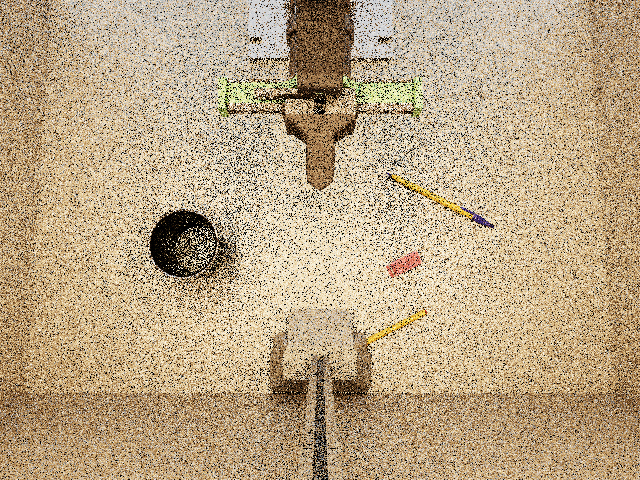
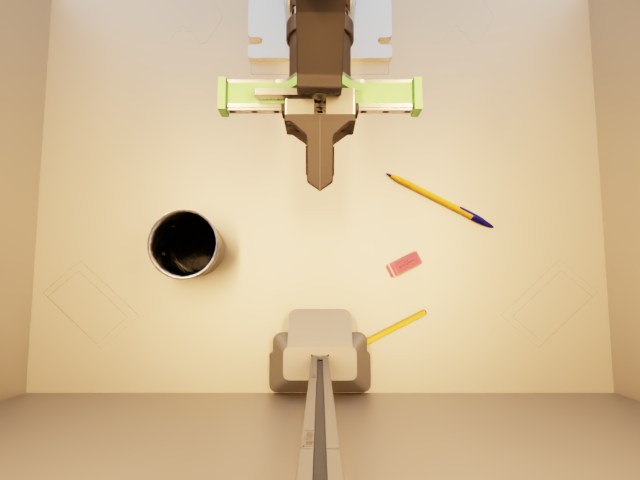
docs: retake stationery stills with Path Tracing (noise-free)
The stills are now rendered by the capture script's Path Tracing mode; the
callout no longer attributes speckle to the 8GB-GPU limitation.

diff --git a/js/course-data.js b/js/course-data.js
@@ -93,7 +93,7 @@ window.COURSE_DATA = [
     "chapterTitle": "3. Get Your Own VLA Model",
     "title": "3.4 Collect Data from Isaac Sim (Optional)",
     "file": "03_Get_Your_Own_VLA_Model/04_Collect_Data_from_Isaac_Sim.md",
-    "content": "# Collect Data from Isaac Sim\n\nThis article describes how to use the reBot Arm 102 Leader to control the B601 robotic arm in Isaac Sim in real time, and collect human demonstrations of \"placing the three vials into the vial rack\" as a LeRobot Dataset v3 dataset.\n\n> [!NOTE]\n> This chapter is optional. It is recommended to run the complete real-world loop first (collect data → train → evaluate in the real environment, sections 3.1–3.3). Simulation data does not occupy the real robot and can scale scene and lighting diversity at low cost, so it works well as a supplement once the real pipeline is verified.\n\n![Isaac Sim teleoperation demonstration](../image/8月9日.gif)\n\n## Learning Objectives\n\n- Learn about the Nvidia Isaac Sim simulation tool\n- Learn the workspace camera layout: the wrist-mounted `front` camera, the fixed `side` camera, and the overhead `external` camera\n- Generate a complete `VLA` training dataset\n\n## Data Acquisition Process\n\nThe data link of this project is as follows:\n\n```text\nreBot Arm 102 Leader\n       | USB-UART\n       ▼\nLeRobot Python bridge -- UDP 127.0.0.1:5005 --> Isaac Sim B601\n                                                        |\n                                   +--------------------+--------------------+\n                                   |                    |                    |\n                                   ▼                    ▼                    ▼\n                              action/state         front camera        external camera\n                                   |                    |                    |\n                                   +--------------------+--------------------+\n                                                        |\n                                                        ▼\n                                                 LeRobot Dataset v3\n```\n\nThe `Leader` only provides manual control commands, and the simulated robotic arm will not autonomously execute the grasping trajectory. The system simultaneously records:\n\n- `action`: 6 arm joint and gripper commands for the `Leader`;\n- `observation.state`: the states of the 6 joints and the gripper of simulation B601;\n- `observation.images.front`: camera images that move along with the wrist;\n- `observation.images.external`: the overhead view from the data-collection camera above the workspace;\n- Task text (`Put the three vials into the vial rack`), randomization parameters, and task success status.\n\nThe default acquisition frequency is 30 `FPS`. Both recorded cameras have a resolution of 640 × 480. The GUI also opens a fixed `side` camera viewport inside the enclosure; it is for observation only and is not written to the dataset.\n\n## Camera Views\n\nAfter pressing `R` to reset the scene, the three camera views look like this. `front` and `external` are the two video streams actually recorded into the dataset:\n\n<div style=\"display: grid; grid-template-columns: repeat(auto-fit, minmax(240px, 1fr)); gap: 1.25rem; margin: 1.5rem 0;\">\n  <figure style=\"margin: 0;\">\n    <img src=\"../image/camera_preview_front.png\" alt=\"front camera view\" style=\"width: 100%; border-radius: 8px; border: 1px solid var(--nv-border);\">\n    <figcaption style=\"text-align: center; font-size: 0.875rem; margin-top: 0.5rem;\">front (wrist-mounted, moves with the arm)</figcaption>\n  </figure>\n  <figure style=\"margin: 0;\">\n    <img src=\"../image/camera_preview_side.png\" alt=\"side camera view\" style=\"width: 100%; border-radius: 8px; border: 1px solid var(--nv-border);\">\n    <figcaption style=\"text-align: center; font-size: 0.875rem; margin-top: 0.5rem;\">side (fixed inside the enclosure, observation only)</figcaption>\n  </figure>\n  <figure style=\"margin: 0;\">\n    <img src=\"../image/camera_preview_external.png\" alt=\"external camera view\" style=\"width: 100%; border-radius: 8px; border: 1px solid var(--nv-border);\">\n    <figcaption style=\"text-align: center; font-size: 0.875rem; margin-top: 0.5rem;\">external (overhead, recorded)</figcaption>\n  </figure>\n</div>\n\n> [!NOTE]\n> The hardware visible in the lower part of the `front` view (gripper and camera mount) is expected — the wrist camera sits at the front of the lens and looks along the arm. Use `./run.sh --single-viewport` to keep only the main viewport and hide the three floating camera windows; recording is unaffected.\n\n## Optional Task: Pens and Eraser into the Pencil Cup\n\nBesides the default vial task, the project ships an optional `stationery` scene: a fixed pencil cup at `(-0.16, 0.12) m` with two pens and an eraser as the graspable objects. The robot, enclosure and all three cameras are identical to the default scene, and the scene file is generated automatically on first launch:\n\n```bash\n./run.sh --variant stationery\n```\n\nAfter pressing `R`, the three camera views look like this (`front` and `external` are the recorded streams):\n\n<div style=\"display: grid; grid-template-columns: repeat(auto-fit, minmax(240px, 1fr)); gap: 1.25rem; margin: 1.5rem 0;\">\n  <figure style=\"margin: 0;\">\n    <img src=\"../image/camera_preview_stationery_front.png\" alt=\"front camera view in the stationery scene\" style=\"width: 100%; border-radius: 8px; border: 1px solid var(--nv-border);\">\n    <figcaption style=\"text-align: center; font-size: 0.875rem; margin-top: 0.5rem;\">front (wrist-mounted, recorded)</figcaption>\n  </figure>\n  <figure style=\"margin: 0;\">\n    <img src=\"../image/camera_preview_stationery_side.png\" alt=\"side camera view in the stationery scene\" style=\"width: 100%; border-radius: 8px; border: 1px solid var(--nv-border);\">\n    <figcaption style=\"text-align: center; font-size: 0.875rem; margin-top: 0.5rem;\">side (fixed, observation only)</figcaption>\n  </figure>\n  <figure style=\"margin: 0;\">\n    <img src=\"../image/camera_preview_stationery_external.png\" alt=\"external camera view in the stationery scene\" style=\"width: 100%; border-radius: 8px; border: 1px solid var(--nv-border);\">\n    <figcaption style=\"text-align: center; font-size: 0.875rem; margin-top: 0.5rem;\">external (overhead, recorded)</figcaption>\n  </figure>\n</div>\n\nThe capture flow is the same (`R` reset / `S` record / `C` cancel), and the episode succeeds once all three items rest stably inside the cup. Data is written to a separate dataset so it never mixes with the default vial data:\n\n```bash\n~/rebot-arm-dli-isaacsim/datasets/rebot_stationery_pencil_cup\n# Task text: Put the two pens and the eraser into the pencil cup\n```\n\n> [!NOTE]\n> The stills above were captured on an 8 GB laptop GPU; the speckle noise is a known rendering limitation of that hardware (see the project tutorial, \"Known Issues\"). On a recommended ≥12 GB RTX 40-series GPU the same scene renders clean.\n\n## Environmental Requirements\n\nPlease confirm the following before starting:\n\n- Ubuntu 22.04;\n- NVIDIA RTX GPU with **at least 12 GB of VRAM**, and Isaac Sim 6.1 installed and launchable;\n- Isaac Sim is installed by default at `~/isaacsim`;\n- The LeRobot environment is located at `~/rebot_lerobot/.venv` and was installed with the dataset extras (see section 3.1): `uv pip install -e \"./lerobot[dataset,viz]\"`. Without them, the recorded episodes fail to convert (the terminal prints `[dataset-error]`) and the dataset visualizer is unavailable;\n- The reBot Arm 102 Leader has been connected to the computer via USB-UART and calibrated successfully;\n- `git-lfs` is installed (the project's USD assets are stored with Git LFS).\n\n> [!WARNING]\n> Use an RTX GPU with at least 12 GB of VRAM. On 8 GB GPUs (e.g. most laptop GPUs) the render load can starve the desktop compositor and freeze the whole machine within minutes, even with the built-in mitigations enabled. See the project tutorial `TUTORIAL_zh.md` (sections 1 and 10) for details and partial mitigations.\n\nThe recommended directory structure is as follows:\n\n```text\n~\n├── isaacsim/\n└── rebot_lerobot/\n    └── .venv/bin/python\n```\n\n## Download Source Code\n\nRun the following command in the terminal of the Ubuntu host:\n\n```bash\nsudo apt update\nsudo apt install -y git-lfs\n\ncd ~\ngit clone https://github.com/Seeed-Projects/rebot-arm-dli-isaacsim.git\ncd rebot-arm-dli-isaacsim\ngit lfs install\ngit lfs pull\n```\n\n> [!WARNING]\n> The robot, camera-mount, workspace, vial and rack assets are stored with Git LFS. Without `git lfs pull` the clone only contains small pointer files, and Isaac Sim cannot open the scene.\n\n## Launch Isaac Sim Teleoperation\n\nNavigate to the project directory and start:\n\n```bash\ncd ~/rebot-arm-dli-isaacsim\n./run.sh --leader-port /dev/ttyUSB0\n```\n\nIf there is only one `/dev/ttyUSB*` device, you can also let the program detect it automatically:\n\n```bash\n./run.sh\n```\n\nIf Isaac Sim is installed in a different directory:\n\n```bash\nISAACSIM_ROOT=/path/to/isaacsim ./run.sh --leader-port /dev/ttyUSB0\n```\n\nThe first launch takes a few minutes to compile shaders; this is normal. After startup is complete, the terminal shall display:\n\n![Isaac Sim Startup Terminal Output](../image/e7f5a5d8-3e3e-4212-9e9d-eb0e428b40f8.png)\n\n## Capture an episode\n\nEnsure that the Isaac Sim viewport has obtained keyboard focus, then performs the following operations in sequence:\n\n1. Press `R` to reset the scene. The three vials will be repositioned, and randomization of objects and lighting will be applied.\n2. Check the three camera views (see above) and the initial position of the vials.\n3. Press `S` to start recording. The following should appear on the terminal:\n\n```text\n[record] Episode started at 30 FPS -> .../datasets/rebot_stationery_front_side\n```\n\n4. Operate the leader, and put the three vials into the vial rack in sequence (any of the four slots works).\n5. Release the gripper and wait for the vials to stabilize in the rack.\n6. When `[SUCCESS]` appears on the terminal, press `S` to finish and save the episode.\n7. Wait for the background encoding to complete until the following message appears in the terminal:\n\n```text\n[dataset] Episode saved; total completed: 1\n```\n\nThe system will convert temporary JPEGs, actions and states into LeRobot Dataset v3 in the background, and you can start the next operation during the encoding process. When exiting the program, if there are still pending episodes, the program will wait for the background tasks to complete.\n\n## Keyboard Shortcuts\n\n| button | Function |\n|---|---|\n| `R` | Reset the three vials and re-randomize them |\n| `S` | Start recording; press again while recording to end and save |\n| `C` | Cancel the current episode without writing it to the dataset |\n\nIf a vial falls, a grasp fails, the motion quality is poor, or the camera is occluded during the demonstration, press `C` to discard the current episode, then press `R` to start the next data collection.\n\nThe default output directory for collected data is:\n\n```bash\n~/rebot-arm-dli-isaacsim/datasets/rebot_stationery_front_side\n```\n\n> [!NOTE]\n> To train GR00T 1.7 on this simulated dataset (section 3.2), change `video.side.original_key` in `modality.json` from `observation.images.side` to `observation.images.external` (the real dataset from section 3.1 keeps using `side`).\n\n## Inspect and visualize datasets\n\nYou can quickly inspect the collected data using the LeRobot visualization tool by running the following command in the terminal:\n\n```bash\ncd ~/rebot_lerobot\nsource .venv/bin/activate\n\nlerobot-dataset-viz \\\n    --repo-id local/rebot_stationery_front_side \\\n    --root ~/rebot-arm-dli-isaacsim/datasets/rebot_stationery_front_side \\\n    --mode local \\\n    --episode-index 0 \\\n    --display-compressed-images false\n```\n\nCheck different episodes in sequence to confirm that the actions, statuses and the time of the two video streams are synchronized, and there are no black frames, frozen frames or severe occlusion in the picture.\n\n![Isaac Sim Dataset Visualizer UI](../image/2564b0ac-fbac-4b4e-baf5-38b7f613ae73.png)\n\n## Replaying Actions in Isaac Sim\n\nFirst, start an Isaac Sim receiver that does not connect to the Leader, does not record data, and has randomization disabled:\n\n```bash\ncd ~/rebot-arm-dli-isaacsim\n./run.sh --no-start-bridge --no-recording --no-dr\n```\n\nThen open the second terminal and play back the 0th episode:\n\n```bash\ncd ~/rebot-arm-dli-isaacsim\n../rebot_lerobot/.venv/bin/python \\\n    scripts/replay_episode.py --episode 0\n```\n\nLoop playback can be enabled by adding `--loop`:\n\n```bash\n../rebot_lerobot/.venv/bin/python \\\n    scripts/replay_episode.py --episode 0 --loop\n```\n\nThe replay script sends the data in the dataset `action`, which is used to check the motion trajectory of the robotic arm; it is not a dual-camera video player, and the camera content should be inspected using the LeRobot dataset visualization tool.\n\n## Verify without the Leader (optional)\n\nIf the Leader arm is not available yet, the whole pipeline can still be validated with the built-in mock leader:\n\n```bash\ncd ~/rebot-arm-dli-isaacsim\n./run.sh --test                     # physics and grasp regression, ~3 minutes\n./run.sh --test --test-recording    # additionally validates the cameras and dataset writing\n```\n\nThe final `[SUCCESS]` means: all USD assets load, the scene builds, physics/gripper/grasping work, and the dataset is written correctly. No hardware is required.\n\n## Configuration and Reference Materials\n\nMain configuration files in the project:\n\n- `config/teleop_config.json`: serial port, UDP, joint mapping and grasping assistance;\n- `config/domain_randomization.json`: object, lighting, camera and dataset parameters;\n- `config/grasp_config.json`: scene objects, physical parameters and task success conditions;\n- `scripts/capture_camera_previews.py`: headless script that rewrites the camera stills used in this chapter.\n",
+    "content": "# Collect Data from Isaac Sim\n\nThis article describes how to use the reBot Arm 102 Leader to control the B601 robotic arm in Isaac Sim in real time, and collect human demonstrations of \"placing the three vials into the vial rack\" as a LeRobot Dataset v3 dataset.\n\n> [!NOTE]\n> This chapter is optional. It is recommended to run the complete real-world loop first (collect data → train → evaluate in the real environment, sections 3.1–3.3). Simulation data does not occupy the real robot and can scale scene and lighting diversity at low cost, so it works well as a supplement once the real pipeline is verified.\n\n![Isaac Sim teleoperation demonstration](../image/8月9日.gif)\n\n## Learning Objectives\n\n- Learn about the Nvidia Isaac Sim simulation tool\n- Learn the workspace camera layout: the wrist-mounted `front` camera, the fixed `side` camera, and the overhead `external` camera\n- Generate a complete `VLA` training dataset\n\n## Data Acquisition Process\n\nThe data link of this project is as follows:\n\n```text\nreBot Arm 102 Leader\n       | USB-UART\n       ▼\nLeRobot Python bridge -- UDP 127.0.0.1:5005 --> Isaac Sim B601\n                                                        |\n                                   +--------------------+--------------------+\n                                   |                    |                    |\n                                   ▼                    ▼                    ▼\n                              action/state         front camera        external camera\n                                   |                    |                    |\n                                   +--------------------+--------------------+\n                                                        |\n                                                        ▼\n                                                 LeRobot Dataset v3\n```\n\nThe `Leader` only provides manual control commands, and the simulated robotic arm will not autonomously execute the grasping trajectory. The system simultaneously records:\n\n- `action`: 6 arm joint and gripper commands for the `Leader`;\n- `observation.state`: the states of the 6 joints and the gripper of simulation B601;\n- `observation.images.front`: camera images that move along with the wrist;\n- `observation.images.external`: the overhead view from the data-collection camera above the workspace;\n- Task text (`Put the three vials into the vial rack`), randomization parameters, and task success status.\n\nThe default acquisition frequency is 30 `FPS`. Both recorded cameras have a resolution of 640 × 480. The GUI also opens a fixed `side` camera viewport inside the enclosure; it is for observation only and is not written to the dataset.\n\n## Camera Views\n\nAfter pressing `R` to reset the scene, the three camera views look like this. `front` and `external` are the two video streams actually recorded into the dataset:\n\n<div style=\"display: grid; grid-template-columns: repeat(auto-fit, minmax(240px, 1fr)); gap: 1.25rem; margin: 1.5rem 0;\">\n  <figure style=\"margin: 0;\">\n    <img src=\"../image/camera_preview_front.png\" alt=\"front camera view\" style=\"width: 100%; border-radius: 8px; border: 1px solid var(--nv-border);\">\n    <figcaption style=\"text-align: center; font-size: 0.875rem; margin-top: 0.5rem;\">front (wrist-mounted, moves with the arm)</figcaption>\n  </figure>\n  <figure style=\"margin: 0;\">\n    <img src=\"../image/camera_preview_side.png\" alt=\"side camera view\" style=\"width: 100%; border-radius: 8px; border: 1px solid var(--nv-border);\">\n    <figcaption style=\"text-align: center; font-size: 0.875rem; margin-top: 0.5rem;\">side (fixed inside the enclosure, observation only)</figcaption>\n  </figure>\n  <figure style=\"margin: 0;\">\n    <img src=\"../image/camera_preview_external.png\" alt=\"external camera view\" style=\"width: 100%; border-radius: 8px; border: 1px solid var(--nv-border);\">\n    <figcaption style=\"text-align: center; font-size: 0.875rem; margin-top: 0.5rem;\">external (overhead, recorded)</figcaption>\n  </figure>\n</div>\n\n> [!NOTE]\n> The hardware visible in the lower part of the `front` view (gripper and camera mount) is expected — the wrist camera sits at the front of the lens and looks along the arm. Use `./run.sh --single-viewport` to keep only the main viewport and hide the three floating camera windows; recording is unaffected.\n\n## Optional Task: Pens and Eraser into the Pencil Cup\n\nBesides the default vial task, the project ships an optional `stationery` scene: a fixed pencil cup at `(-0.16, 0.12) m` with two pens and an eraser as the graspable objects. The robot, enclosure and all three cameras are identical to the default scene, and the scene file is generated automatically on first launch:\n\n```bash\n./run.sh --variant stationery\n```\n\nAfter pressing `R`, the three camera views look like this (`front` and `external` are the recorded streams):\n\n<div style=\"display: grid; grid-template-columns: repeat(auto-fit, minmax(240px, 1fr)); gap: 1.25rem; margin: 1.5rem 0;\">\n  <figure style=\"margin: 0;\">\n    <img src=\"../image/camera_preview_stationery_front.png\" alt=\"front camera view in the stationery scene\" style=\"width: 100%; border-radius: 8px; border: 1px solid var(--nv-border);\">\n    <figcaption style=\"text-align: center; font-size: 0.875rem; margin-top: 0.5rem;\">front (wrist-mounted, recorded)</figcaption>\n  </figure>\n  <figure style=\"margin: 0;\">\n    <img src=\"../image/camera_preview_stationery_side.png\" alt=\"side camera view in the stationery scene\" style=\"width: 100%; border-radius: 8px; border: 1px solid var(--nv-border);\">\n    <figcaption style=\"text-align: center; font-size: 0.875rem; margin-top: 0.5rem;\">side (fixed, observation only)</figcaption>\n  </figure>\n  <figure style=\"margin: 0;\">\n    <img src=\"../image/camera_preview_stationery_external.png\" alt=\"external camera view in the stationery scene\" style=\"width: 100%; border-radius: 8px; border: 1px solid var(--nv-border);\">\n    <figcaption style=\"text-align: center; font-size: 0.875rem; margin-top: 0.5rem;\">external (overhead, recorded)</figcaption>\n  </figure>\n</div>\n\nThe capture flow is the same (`R` reset / `S` record / `C` cancel), and the episode succeeds once all three items rest stably inside the cup. Data is written to a separate dataset so it never mixes with the default vial data:\n\n```bash\n~/rebot-arm-dli-isaacsim/datasets/rebot_stationery_pencil_cup\n# Task text: Put the two pens and the eraser into the pencil cup\n```\n\n> [!NOTE]\n> The stills above are rendered with Path Tracing via the project's headless capture script. The real-time GUI viewport may still look noisy on 8 GB GPUs whose DLSS Ray Reconstruction is unavailable (see the project tutorial, \"Known Issues\").\n\n## Environmental Requirements\n\nPlease confirm the following before starting:\n\n- Ubuntu 22.04;\n- NVIDIA RTX GPU with **at least 12 GB of VRAM**, and Isaac Sim 6.1 installed and launchable;\n- Isaac Sim is installed by default at `~/isaacsim`;\n- The LeRobot environment is located at `~/rebot_lerobot/.venv` and was installed with the dataset extras (see section 3.1): `uv pip install -e \"./lerobot[dataset,viz]\"`. Without them, the recorded episodes fail to convert (the terminal prints `[dataset-error]`) and the dataset visualizer is unavailable;\n- The reBot Arm 102 Leader has been connected to the computer via USB-UART and calibrated successfully;\n- `git-lfs` is installed (the project's USD assets are stored with Git LFS).\n\n> [!WARNING]\n> Use an RTX GPU with at least 12 GB of VRAM. On 8 GB GPUs (e.g. most laptop GPUs) the render load can starve the desktop compositor and freeze the whole machine within minutes, even with the built-in mitigations enabled. See the project tutorial `TUTORIAL_zh.md` (sections 1 and 10) for details and partial mitigations.\n\nThe recommended directory structure is as follows:\n\n```text\n~\n├── isaacsim/\n└── rebot_lerobot/\n    └── .venv/bin/python\n```\n\n## Download Source Code\n\nRun the following command in the terminal of the Ubuntu host:\n\n```bash\nsudo apt update\nsudo apt install -y git-lfs\n\ncd ~\ngit clone https://github.com/Seeed-Projects/rebot-arm-dli-isaacsim.git\ncd rebot-arm-dli-isaacsim\ngit lfs install\ngit lfs pull\n```\n\n> [!WARNING]\n> The robot, camera-mount, workspace, vial and rack assets are stored with Git LFS. Without `git lfs pull` the clone only contains small pointer files, and Isaac Sim cannot open the scene.\n\n## Launch Isaac Sim Teleoperation\n\nNavigate to the project directory and start:\n\n```bash\ncd ~/rebot-arm-dli-isaacsim\n./run.sh --leader-port /dev/ttyUSB0\n```\n\nIf there is only one `/dev/ttyUSB*` device, you can also let the program detect it automatically:\n\n```bash\n./run.sh\n```\n\nIf Isaac Sim is installed in a different directory:\n\n```bash\nISAACSIM_ROOT=/path/to/isaacsim ./run.sh --leader-port /dev/ttyUSB0\n```\n\nThe first launch takes a few minutes to compile shaders; this is normal. After startup is complete, the terminal shall display:\n\n![Isaac Sim Startup Terminal Output](../image/e7f5a5d8-3e3e-4212-9e9d-eb0e428b40f8.png)\n\n## Capture an episode\n\nEnsure that the Isaac Sim viewport has obtained keyboard focus, then performs the following operations in sequence:\n\n1. Press `R` to reset the scene. The three vials will be repositioned, and randomization of objects and lighting will be applied.\n2. Check the three camera views (see above) and the initial position of the vials.\n3. Press `S` to start recording. The following should appear on the terminal:\n\n```text\n[record] Episode started at 30 FPS -> .../datasets/rebot_stationery_front_side\n```\n\n4. Operate the leader, and put the three vials into the vial rack in sequence (any of the four slots works).\n5. Release the gripper and wait for the vials to stabilize in the rack.\n6. When `[SUCCESS]` appears on the terminal, press `S` to finish and save the episode.\n7. Wait for the background encoding to complete until the following message appears in the terminal:\n\n```text\n[dataset] Episode saved; total completed: 1\n```\n\nThe system will convert temporary JPEGs, actions and states into LeRobot Dataset v3 in the background, and you can start the next operation during the encoding process. When exiting the program, if there are still pending episodes, the program will wait for the background tasks to complete.\n\n## Keyboard Shortcuts\n\n| button | Function |\n|---|---|\n| `R` | Reset the three vials and re-randomize them |\n| `S` | Start recording; press again while recording to end and save |\n| `C` | Cancel the current episode without writing it to the dataset |\n\nIf a vial falls, a grasp fails, the motion quality is poor, or the camera is occluded during the demonstration, press `C` to discard the current episode, then press `R` to start the next data collection.\n\nThe default output directory for collected data is:\n\n```bash\n~/rebot-arm-dli-isaacsim/datasets/rebot_stationery_front_side\n```\n\n> [!NOTE]\n> To train GR00T 1.7 on this simulated dataset (section 3.2), change `video.side.original_key` in `modality.json` from `observation.images.side` to `observation.images.external` (the real dataset from section 3.1 keeps using `side`).\n\n## Inspect and visualize datasets\n\nYou can quickly inspect the collected data using the LeRobot visualization tool by running the following command in the terminal:\n\n```bash\ncd ~/rebot_lerobot\nsource .venv/bin/activate\n\nlerobot-dataset-viz \\\n    --repo-id local/rebot_stationery_front_side \\\n    --root ~/rebot-arm-dli-isaacsim/datasets/rebot_stationery_front_side \\\n    --mode local \\\n    --episode-index 0 \\\n    --display-compressed-images false\n```\n\nCheck different episodes in sequence to confirm that the actions, statuses and the time of the two video streams are synchronized, and there are no black frames, frozen frames or severe occlusion in the picture.\n\n![Isaac Sim Dataset Visualizer UI](../image/2564b0ac-fbac-4b4e-baf5-38b7f613ae73.png)\n\n## Replaying Actions in Isaac Sim\n\nFirst, start an Isaac Sim receiver that does not connect to the Leader, does not record data, and has randomization disabled:\n\n```bash\ncd ~/rebot-arm-dli-isaacsim\n./run.sh --no-start-bridge --no-recording --no-dr\n```\n\nThen open the second terminal and play back the 0th episode:\n\n```bash\ncd ~/rebot-arm-dli-isaacsim\n../rebot_lerobot/.venv/bin/python \\\n    scripts/replay_episode.py --episode 0\n```\n\nLoop playback can be enabled by adding `--loop`:\n\n```bash\n../rebot_lerobot/.venv/bin/python \\\n    scripts/replay_episode.py --episode 0 --loop\n```\n\nThe replay script sends the data in the dataset `action`, which is used to check the motion trajectory of the robotic arm; it is not a dual-camera video player, and the camera content should be inspected using the LeRobot dataset visualization tool.\n\n## Verify without the Leader (optional)\n\nIf the Leader arm is not available yet, the whole pipeline can still be validated with the built-in mock leader:\n\n```bash\ncd ~/rebot-arm-dli-isaacsim\n./run.sh --test                     # physics and grasp regression, ~3 minutes\n./run.sh --test --test-recording    # additionally validates the cameras and dataset writing\n```\n\nThe final `[SUCCESS]` means: all USD assets load, the scene builds, physics/gripper/grasping work, and the dataset is written correctly. No hardware is required.\n\n## Configuration and Reference Materials\n\nMain configuration files in the project:\n\n- `config/teleop_config.json`: serial port, UDP, joint mapping and grasping assistance;\n- `config/domain_randomization.json`: object, lighting, camera and dataset parameters;\n- `config/grasp_config.json`: scene objects, physical parameters and task success conditions;\n- `scripts/capture_camera_previews.py`: headless script that rewrites the camera stills used in this chapter.\n",
   },
   {
     "id": "3.5",

diff --git a/js/course-data-zh.js b/js/course-data-zh.js
@@ -93,7 +93,7 @@ window.COURSE_DATA_ZH = [
     "chapterTitle": "3. 训练你自己的 VLA 模型",
     "title": "3.4 从 Isaac Sim 中采集数据（可选）",
     "file": "03_Get_Your_Own_VLA_Model/04_Collect_Data_from_Isaac_Sim.md",
-    "content": "# 从 Isaac Sim 采集数据\n\n本章节介绍如何使用 reBot Arm 102 Leader 实时控制 Isaac Sim 中的 B601 机械臂，并把\"将三个小瓶放入瓶架\"的人类示教采集为 LeRobot Dataset v3 数据集。\n\n> [!NOTE]\n> 本章为可选章节。建议先跑通完整的真实世界闭环（真实采集 → 训练 → 真实环境评估，即 3.1–3.3 节），再回来学习本章：仿真数据不占用真实机械臂，能够以极低成本扩展场景与光照多样性，适合在真实流水线验证通过后作为数据补充。\n\n![Isaac Sim 遥操作演示](../image/8月9日.gif)\n\n## 学习目标\n\n- 了解 Nvidia Isaac Sim 仿真工具\n- 了解工作空间的相机布局：腕部 `front` 相机、固定 `side` 相机与顶部 `external` 相机\n- 生成一份完整的 `VLA` 训练数据集\n\n## 数据采集流程\n\n本项目的数据链路如下：\n\n```text\nreBot Arm 102 Leader\n       | USB-UART\n       ▼\nLeRobot Python bridge -- UDP 127.0.0.1:5005 --> Isaac Sim B601\n                                                        |\n                                   +--------------------+--------------------+\n                                   |                    |                    |\n                                   ▼                    ▼                    ▼\n                              action/state         front camera        external camera\n                                   |                    |                    |\n                                   +--------------------+--------------------+\n                                                        |\n                                                        ▼\n                                                 LeRobot Dataset v3\n```\n\n`Leader` 仅提供手动控制指令，仿真机械臂不会自主执行抓取轨迹。系统同时记录：\n\n- `action`：`Leader` 的 6 个关节与夹爪指令；\n- `observation.state`：仿真 B601 的 6 个关节与夹爪状态；\n- `observation.images.front`：随腕部移动的相机图像；\n- `observation.images.external`：工作面上方数据采集相机拍摄的俯视图像；\n- 任务文本（`Put the three vials into the vial rack`）、随机化参数以及任务成功状态。\n\n默认采集频率为 30 `FPS`。两路记录相机的分辨率均为 640 × 480。界面中还会打开一个围栏内固定的 `side` 相机视图，它仅用于观察，不会写入数据集。\n\n## 相机画面\n\n按 `R` 重置场景后，三路相机的画面如下。其中 `front` 与 `external` 是数据集里实际记录的两路视频流：\n\n<div style=\"display: grid; grid-template-columns: repeat(auto-fit, minmax(240px, 1fr)); gap: 1.25rem; margin: 1.5rem 0;\">\n  <figure style=\"margin: 0;\">\n    <img src=\"../image/camera_preview_front.png\" alt=\"腕部相机画面\" style=\"width: 100%; border-radius: 8px; border: 1px solid var(--nv-border);\">\n    <figcaption style=\"text-align: center; font-size: 0.875rem; margin-top: 0.5rem;\">front（腕部安装，随手臂移动）</figcaption>\n  </figure>\n  <figure style=\"margin: 0;\">\n    <img src=\"../image/camera_preview_side.png\" alt=\"侧视相机画面\" style=\"width: 100%; border-radius: 8px; border: 1px solid var(--nv-border);\">\n    <figcaption style=\"text-align: center; font-size: 0.875rem; margin-top: 0.5rem;\">side（围栏内固定，仅观察）</figcaption>\n  </figure>\n  <figure style=\"margin: 0;\">\n    <img src=\"../image/camera_preview_external.png\" alt=\"顶部相机画面\" style=\"width: 100%; border-radius: 8px; border: 1px solid var(--nv-border);\">\n    <figcaption style=\"text-align: center; font-size: 0.875rem; margin-top: 0.5rem;\">external（顶部俯视，录制）</figcaption>\n  </figure>\n</div>\n\n> [!NOTE]\n> `front` 画面下方出现夹爪与相机支架硬件属于正常现象——腕部相机安装在镜头前端、沿手臂方向取景。可用 `./run.sh --single-viewport` 只保留主视口、隐藏三个浮动相机窗口，录制不受影响。\n\n## 可选任务：两支笔和橡皮放进笔筒\n\n除了默认的小瓶任务，工程还内置一个可选的 `stationery` 场景：固定笔筒放在工作面 `(-0.16, 0.12) m` 处，两支笔和一块橡皮作为可抓取物体。机器人、围栏与三路相机和默认场景完全一致，场景文件会在首次启动时自动生成：\n\n```bash\n./run.sh --variant stationery\n```\n\n按 `R` 重置后，三路相机的画面如下（`front` 与 `external` 是数据集实际记录的两路视频流）：\n\n<div style=\"display: grid; grid-template-columns: repeat(auto-fit, minmax(240px, 1fr)); gap: 1.25rem; margin: 1.5rem 0;\">\n  <figure style=\"margin: 0;\">\n    <img src=\"../image/camera_preview_stationery_front.png\" alt=\"stationery 场景腕部相机画面\" style=\"width: 100%; border-radius: 8px; border: 1px solid var(--nv-border);\">\n    <figcaption style=\"text-align: center; font-size: 0.875rem; margin-top: 0.5rem;\">front（腕部安装，录制）</figcaption>\n  </figure>\n  <figure style=\"margin: 0;\">\n    <img src=\"../image/camera_preview_stationery_side.png\" alt=\"stationery 场景侧视相机画面\" style=\"width: 100%; border-radius: 8px; border: 1px solid var(--nv-border);\">\n    <figcaption style=\"text-align: center; font-size: 0.875rem; margin-top: 0.5rem;\">side（固定，仅观察）</figcaption>\n  </figure>\n  <figure style=\"margin: 0;\">\n    <img src=\"../image/camera_preview_stationery_external.png\" alt=\"stationery 场景顶部相机画面\" style=\"width: 100%; border-radius: 8px; border: 1px solid var(--nv-border);\">\n    <figcaption style=\"text-align: center; font-size: 0.875rem; margin-top: 0.5rem;\">external（顶部俯视，录制）</figcaption>\n  </figure>\n</div>\n\n采集流程与默认场景完全相同（`R` 重置 / `S` 录制 / `C` 丢弃），三件文具都稳定放进笔筒时 episode 判定成功。数据写入独立目录，不会和默认的小瓶数据混在一起：\n\n```bash\n~/rebot-arm-dli-isaacsim/datasets/rebot_stationery_pencil_cup\n# 任务文本: Put the two pens and the eraser into the pencil cup\n```\n\n> [!NOTE]\n> 上方截图拍摄于 8GB 笔记本 GPU；画面噪点是该硬件的已知渲染限制（见项目教程\"已知问题\"一节）。在建议的 ≥12GB RTX 40 系显卡上加载同一场景，相机画面是干净的。\n\n## 环境要求\n\n开始前请确认以下条件：\n\n- Ubuntu 22.04；\n- NVIDIA RTX 显卡，**显存 ≥ 12GB**，且 Isaac Sim 6.1 能够正常启动；\n- Isaac Sim 默认安装在 `~/isaacsim`；\n- LeRobot 环境位于 `~/rebot_lerobot/.venv`，并且安装了数据集扩展依赖（见 3.1 节）：`uv pip install -e \"./lerobot[dataset,viz]\"`。缺少它们时，录制的 episode 会转换失败（终端出现 `[dataset-error]`），数据集可视化工具也不可用；\n- reBot Arm 102 Leader 已通过 USB-UART 连接至计算机并完成校准；\n- 已安装 `git-lfs`（本项目的 USD 资产使用 Git LFS 存储）。\n\n> [!WARNING]\n> 请使用显存 ≥ 12GB 的 RTX 显卡。8GB 显存（如大多数笔记本 GPU）在本工程的渲染负载下可能拖死桌面合成器，导致整机\"死机\"，即使启用了内置防护也存在风险。详情与部分缓解措施见项目教程 `TUTORIAL_zh.md` 第 1、10 节。\n\n推荐的目录结构如下：\n\n```text\n~\n├── isaacsim/\n└── rebot_lerobot/\n    └── .venv/bin/python\n```\n\n## 下载源码\n\n在 Ubuntu 主机的终端中运行以下命令：\n\n```bash\nsudo apt update\nsudo apt install -y git-lfs\n\ncd ~\ngit clone https://github.com/Seeed-Projects/rebot-arm-dli-isaacsim.git\ncd rebot-arm-dli-isaacsim\ngit lfs install\ngit lfs pull\n```\n\n> [!WARNING]\n> 机器人、相机支架、工作台、小瓶与瓶架资产均使用 Git LFS 存储。未执行 `git lfs pull` 时，克隆下来的只是几百字节的指针文件，Isaac Sim 将无法打开场景。\n\n## 启动 Isaac Sim 遥操作\n\n进入项目目录并启动：\n\n```bash\ncd ~/rebot-arm-dli-isaacsim\n./run.sh --leader-port /dev/ttyUSB0\n```\n\n如果只有一个 `/dev/ttyUSB*` 设备，也可以让程序自动检测：\n\n```bash\n./run.sh\n```\n\n如果 Isaac Sim 安装在其他目录：\n\n```bash\nISAACSIM_ROOT=/path/to/isaacsim ./run.sh --leader-port /dev/ttyUSB0\n```\n\n首次启动需要几分钟做着色器编译，属于正常现象。启动完成后，终端应显示：\n\n![Isaac Sim 启动终端输出](../image/e7f5a5d8-3e3e-4212-9e9d-eb0e428b40f8.png)\n\n## 采集一个 episode\n\n确保 Isaac Sim 视口已获得键盘焦点，然后按顺序执行以下操作：\n\n1. 按 `R` 重置场景。三个小瓶将被重新放置，并对物体与光照进行随机化处理；\n2. 检查三路相机画面（见上文）以及小瓶的初始位置；\n3. 按 `S` 开始录制。终端应显示：\n\n```text\n[record] Episode started at 30 FPS -> .../datasets/rebot_stationery_front_side\n```\n\n4. 操作 leader，将三个小瓶依次放入瓶架（四个插槽任选）；\n5. 松开夹爪，等待小瓶在瓶架中稳定；\n6. 终端出现 `[SUCCESS]` 后，按 `S` 结束并保存 episode；\n7. 等待后台编码完成，直到终端出现以下信息：\n\n```text\n[dataset] Episode saved; total completed: 1\n```\n\n系统将在后台将临时 JPEG、action 和 state 转换为 LeRobot Dataset v3，编码过程中即可开始下一次操作。退出程序时，如果仍有未处理完的 episode，程序会等待后台任务完成。\n\n## 键盘快捷键\n\n| 按键 | 功能 |\n|---|---|\n| `R` | 重置三个小瓶并重新随机化 |\n| `S` | 开始录制；录制中再次按下则结束并保存 |\n| `C` | 取消当前 episode，不写入数据集 |\n\n若示教过程中小瓶掉落、抓取失败、动作质量不佳或相机被遮挡，可按 `C` 丢弃当前 episode，然后按 `R` 开始下一次数据采集。\n\n采集数据的默认输出目录为：\n\n```bash\n~/rebot-arm-dli-isaacsim/datasets/rebot_stationery_front_side\n```\n\n> [!NOTE]\n> 如果要使用这份仿真数据集训练 GR00T 1.7（见 3.2 节），请把 `modality.json` 的 `video.side.original_key` 从 `observation.images.side` 改为 `observation.images.external`（3.1 节采集的真实数据集仍是 `side`）。\n\n## 检查与可视化数据集\n\n可使用 LeRobot 可视化工具快速检查采集的数据，在终端中运行以下命令：\n\n```bash\ncd ~/rebot_lerobot\nsource .venv/bin/activate\n\nlerobot-dataset-viz \\\n    --repo-id local/rebot_stationery_front_side \\\n    --root ~/rebot-arm-dli-isaacsim/datasets/rebot_stationery_front_side \\\n    --mode local \\\n    --episode-index 0 \\\n    --display-compressed-images false\n```\n\n依次检查不同 episode，确认 action、状态以及两路视频流的时间同步，画面中无黑帧、卡顿或严重遮挡。\n\n![Isaac Sim 数据集可视化工具界面](../image/2564b0ac-fbac-4b4e-baf5-38b7f613ae73.png)\n\n## 在 Isaac Sim 中回放动作\n\n首先启动一个不连接 Leader、不录制数据、且关闭随机化的 Isaac Sim 接收端：\n\n```bash\ncd ~/rebot-arm-dli-isaacsim\n./run.sh --no-start-bridge --no-recording --no-dr\n```\n\n然后打开第二个终端，回放第 0 个 episode：\n\n```bash\ncd ~/rebot-arm-dli-isaacsim\n../rebot_lerobot/.venv/bin/python \\\n    scripts/replay_episode.py --episode 0\n```\n\n可通过添加 `--loop` 启用循环播放：\n\n```bash\n../rebot_lerobot/.venv/bin/python \\\n    scripts/replay_episode.py --episode 0 --loop\n```\n\n回放脚本发送的是数据集中的 `action` 数据，用于检查机械臂的运动轨迹；它不是双摄像头视频播放器，相机内容应使用 LeRobot 数据集可视化工具进行检查。\n\n## 无主臂验证（可选）\n\n如果暂时没有主臂，也可以用内置的 mock 主臂验证整套链路：\n\n```bash\ncd ~/rebot-arm-dli-isaacsim\n./run.sh --test                     # 物理与抓取回归，约 3 分钟\n./run.sh --test --test-recording    # 附加相机录制与数据集写入验证\n```\n\n最终出现 `[SUCCESS]` 即代表：全部 USD 资产正常加载、场景构建正常、物理/夹爪/抓取正常、数据集写入正常，全程不需要任何硬件。\n\n## 配置与参考资料\n\n项目中的主要配置文件：\n\n- `config/teleop_config.json`：串口、UDP、关节映射与抓取辅助；\n- `config/domain_randomization.json`：物体、光照、相机与数据集参数；\n- `config/grasp_config.json`：场景物体、物理参数与任务成功条件；\n- `scripts/capture_camera_previews.py`：headless 截图脚本，可重新生成本章节使用的相机画面。\n",
+    "content": "# 从 Isaac Sim 采集数据\n\n本章节介绍如何使用 reBot Arm 102 Leader 实时控制 Isaac Sim 中的 B601 机械臂，并把\"将三个小瓶放入瓶架\"的人类示教采集为 LeRobot Dataset v3 数据集。\n\n> [!NOTE]\n> 本章为可选章节。建议先跑通完整的真实世界闭环（真实采集 → 训练 → 真实环境评估，即 3.1–3.3 节），再回来学习本章：仿真数据不占用真实机械臂，能够以极低成本扩展场景与光照多样性，适合在真实流水线验证通过后作为数据补充。\n\n![Isaac Sim 遥操作演示](../image/8月9日.gif)\n\n## 学习目标\n\n- 了解 Nvidia Isaac Sim 仿真工具\n- 了解工作空间的相机布局：腕部 `front` 相机、固定 `side` 相机与顶部 `external` 相机\n- 生成一份完整的 `VLA` 训练数据集\n\n## 数据采集流程\n\n本项目的数据链路如下：\n\n```text\nreBot Arm 102 Leader\n       | USB-UART\n       ▼\nLeRobot Python bridge -- UDP 127.0.0.1:5005 --> Isaac Sim B601\n                                                        |\n                                   +--------------------+--------------------+\n                                   |                    |                    |\n                                   ▼                    ▼                    ▼\n                              action/state         front camera        external camera\n                                   |                    |                    |\n                                   +--------------------+--------------------+\n                                                        |\n                                                        ▼\n                                                 LeRobot Dataset v3\n```\n\n`Leader` 仅提供手动控制指令，仿真机械臂不会自主执行抓取轨迹。系统同时记录：\n\n- `action`：`Leader` 的 6 个关节与夹爪指令；\n- `observation.state`：仿真 B601 的 6 个关节与夹爪状态；\n- `observation.images.front`：随腕部移动的相机图像；\n- `observation.images.external`：工作面上方数据采集相机拍摄的俯视图像；\n- 任务文本（`Put the three vials into the vial rack`）、随机化参数以及任务成功状态。\n\n默认采集频率为 30 `FPS`。两路记录相机的分辨率均为 640 × 480。界面中还会打开一个围栏内固定的 `side` 相机视图，它仅用于观察，不会写入数据集。\n\n## 相机画面\n\n按 `R` 重置场景后，三路相机的画面如下。其中 `front` 与 `external` 是数据集里实际记录的两路视频流：\n\n<div style=\"display: grid; grid-template-columns: repeat(auto-fit, minmax(240px, 1fr)); gap: 1.25rem; margin: 1.5rem 0;\">\n  <figure style=\"margin: 0;\">\n    <img src=\"../image/camera_preview_front.png\" alt=\"腕部相机画面\" style=\"width: 100%; border-radius: 8px; border: 1px solid var(--nv-border);\">\n    <figcaption style=\"text-align: center; font-size: 0.875rem; margin-top: 0.5rem;\">front（腕部安装，随手臂移动）</figcaption>\n  </figure>\n  <figure style=\"margin: 0;\">\n    <img src=\"../image/camera_preview_side.png\" alt=\"侧视相机画面\" style=\"width: 100%; border-radius: 8px; border: 1px solid var(--nv-border);\">\n    <figcaption style=\"text-align: center; font-size: 0.875rem; margin-top: 0.5rem;\">side（围栏内固定，仅观察）</figcaption>\n  </figure>\n  <figure style=\"margin: 0;\">\n    <img src=\"../image/camera_preview_external.png\" alt=\"顶部相机画面\" style=\"width: 100%; border-radius: 8px; border: 1px solid var(--nv-border);\">\n    <figcaption style=\"text-align: center; font-size: 0.875rem; margin-top: 0.5rem;\">external（顶部俯视，录制）</figcaption>\n  </figure>\n</div>\n\n> [!NOTE]\n> `front` 画面下方出现夹爪与相机支架硬件属于正常现象——腕部相机安装在镜头前端、沿手臂方向取景。可用 `./run.sh --single-viewport` 只保留主视口、隐藏三个浮动相机窗口，录制不受影响。\n\n## 可选任务：两支笔和橡皮放进笔筒\n\n除了默认的小瓶任务，工程还内置一个可选的 `stationery` 场景：固定笔筒放在工作面 `(-0.16, 0.12) m` 处，两支笔和一块橡皮作为可抓取物体。机器人、围栏与三路相机和默认场景完全一致，场景文件会在首次启动时自动生成：\n\n```bash\n./run.sh --variant stationery\n```\n\n按 `R` 重置后，三路相机的画面如下（`front` 与 `external` 是数据集实际记录的两路视频流）：\n\n<div style=\"display: grid; grid-template-columns: repeat(auto-fit, minmax(240px, 1fr)); gap: 1.25rem; margin: 1.5rem 0;\">\n  <figure style=\"margin: 0;\">\n    <img src=\"../image/camera_preview_stationery_front.png\" alt=\"stationery 场景腕部相机画面\" style=\"width: 100%; border-radius: 8px; border: 1px solid var(--nv-border);\">\n    <figcaption style=\"text-align: center; font-size: 0.875rem; margin-top: 0.5rem;\">front（腕部安装，录制）</figcaption>\n  </figure>\n  <figure style=\"margin: 0;\">\n    <img src=\"../image/camera_preview_stationery_side.png\" alt=\"stationery 场景侧视相机画面\" style=\"width: 100%; border-radius: 8px; border: 1px solid var(--nv-border);\">\n    <figcaption style=\"text-align: center; font-size: 0.875rem; margin-top: 0.5rem;\">side（固定，仅观察）</figcaption>\n  </figure>\n  <figure style=\"margin: 0;\">\n    <img src=\"../image/camera_preview_stationery_external.png\" alt=\"stationery 场景顶部相机画面\" style=\"width: 100%; border-radius: 8px; border: 1px solid var(--nv-border);\">\n    <figcaption style=\"text-align: center; font-size: 0.875rem; margin-top: 0.5rem;\">external（顶部俯视，录制）</figcaption>\n  </figure>\n</div>\n\n采集流程与默认场景完全相同（`R` 重置 / `S` 录制 / `C` 丢弃），三件文具都稳定放进笔筒时 episode 判定成功。数据写入独立目录，不会和默认的小瓶数据混在一起：\n\n```bash\n~/rebot-arm-dli-isaacsim/datasets/rebot_stationery_pencil_cup\n# 任务文本: Put the two pens and the eraser into the pencil cup\n```\n\n> [!NOTE]\n> 上方截图由项目的 headless 截图脚本以 Path Tracing 渲染生成。8GB 显卡的实时 GUI 视口可能仍有噪点（DLSS Ray Reconstruction 不可用所致，见项目教程\"已知问题\"一节）。\n\n## 环境要求\n\n开始前请确认以下条件：\n\n- Ubuntu 22.04；\n- NVIDIA RTX 显卡，**显存 ≥ 12GB**，且 Isaac Sim 6.1 能够正常启动；\n- Isaac Sim 默认安装在 `~/isaacsim`；\n- LeRobot 环境位于 `~/rebot_lerobot/.venv`，并且安装了数据集扩展依赖（见 3.1 节）：`uv pip install -e \"./lerobot[dataset,viz]\"`。缺少它们时，录制的 episode 会转换失败（终端出现 `[dataset-error]`），数据集可视化工具也不可用；\n- reBot Arm 102 Leader 已通过 USB-UART 连接至计算机并完成校准；\n- 已安装 `git-lfs`（本项目的 USD 资产使用 Git LFS 存储）。\n\n> [!WARNING]\n> 请使用显存 ≥ 12GB 的 RTX 显卡。8GB 显存（如大多数笔记本 GPU）在本工程的渲染负载下可能拖死桌面合成器，导致整机\"死机\"，即使启用了内置防护也存在风险。详情与部分缓解措施见项目教程 `TUTORIAL_zh.md` 第 1、10 节。\n\n推荐的目录结构如下：\n\n```text\n~\n├── isaacsim/\n└── rebot_lerobot/\n    └── .venv/bin/python\n```\n\n## 下载源码\n\n在 Ubuntu 主机的终端中运行以下命令：\n\n```bash\nsudo apt update\nsudo apt install -y git-lfs\n\ncd ~\ngit clone https://github.com/Seeed-Projects/rebot-arm-dli-isaacsim.git\ncd rebot-arm-dli-isaacsim\ngit lfs install\ngit lfs pull\n```\n\n> [!WARNING]\n> 机器人、相机支架、工作台、小瓶与瓶架资产均使用 Git LFS 存储。未执行 `git lfs pull` 时，克隆下来的只是几百字节的指针文件，Isaac Sim 将无法打开场景。\n\n## 启动 Isaac Sim 遥操作\n\n进入项目目录并启动：\n\n```bash\ncd ~/rebot-arm-dli-isaacsim\n./run.sh --leader-port /dev/ttyUSB0\n```\n\n如果只有一个 `/dev/ttyUSB*` 设备，也可以让程序自动检测：\n\n```bash\n./run.sh\n```\n\n如果 Isaac Sim 安装在其他目录：\n\n```bash\nISAACSIM_ROOT=/path/to/isaacsim ./run.sh --leader-port /dev/ttyUSB0\n```\n\n首次启动需要几分钟做着色器编译，属于正常现象。启动完成后，终端应显示：\n\n![Isaac Sim 启动终端输出](../image/e7f5a5d8-3e3e-4212-9e9d-eb0e428b40f8.png)\n\n## 采集一个 episode\n\n确保 Isaac Sim 视口已获得键盘焦点，然后按顺序执行以下操作：\n\n1. 按 `R` 重置场景。三个小瓶将被重新放置，并对物体与光照进行随机化处理；\n2. 检查三路相机画面（见上文）以及小瓶的初始位置；\n3. 按 `S` 开始录制。终端应显示：\n\n```text\n[record] Episode started at 30 FPS -> .../datasets/rebot_stationery_front_side\n```\n\n4. 操作 leader，将三个小瓶依次放入瓶架（四个插槽任选）；\n5. 松开夹爪，等待小瓶在瓶架中稳定；\n6. 终端出现 `[SUCCESS]` 后，按 `S` 结束并保存 episode；\n7. 等待后台编码完成，直到终端出现以下信息：\n\n```text\n[dataset] Episode saved; total completed: 1\n```\n\n系统将在后台将临时 JPEG、action 和 state 转换为 LeRobot Dataset v3，编码过程中即可开始下一次操作。退出程序时，如果仍有未处理完的 episode，程序会等待后台任务完成。\n\n## 键盘快捷键\n\n| 按键 | 功能 |\n|---|---|\n| `R` | 重置三个小瓶并重新随机化 |\n| `S` | 开始录制；录制中再次按下则结束并保存 |\n| `C` | 取消当前 episode，不写入数据集 |\n\n若示教过程中小瓶掉落、抓取失败、动作质量不佳或相机被遮挡，可按 `C` 丢弃当前 episode，然后按 `R` 开始下一次数据采集。\n\n采集数据的默认输出目录为：\n\n```bash\n~/rebot-arm-dli-isaacsim/datasets/rebot_stationery_front_side\n```\n\n> [!NOTE]\n> 如果要使用这份仿真数据集训练 GR00T 1.7（见 3.2 节），请把 `modality.json` 的 `video.side.original_key` 从 `observation.images.side` 改为 `observation.images.external`（3.1 节采集的真实数据集仍是 `side`）。\n\n## 检查与可视化数据集\n\n可使用 LeRobot 可视化工具快速检查采集的数据，在终端中运行以下命令：\n\n```bash\ncd ~/rebot_lerobot\nsource .venv/bin/activate\n\nlerobot-dataset-viz \\\n    --repo-id local/rebot_stationery_front_side \\\n    --root ~/rebot-arm-dli-isaacsim/datasets/rebot_stationery_front_side \\\n    --mode local \\\n    --episode-index 0 \\\n    --display-compressed-images false\n```\n\n依次检查不同 episode，确认 action、状态以及两路视频流的时间同步，画面中无黑帧、卡顿或严重遮挡。\n\n![Isaac Sim 数据集可视化工具界面](../image/2564b0ac-fbac-4b4e-baf5-38b7f613ae73.png)\n\n## 在 Isaac Sim 中回放动作\n\n首先启动一个不连接 Leader、不录制数据、且关闭随机化的 Isaac Sim 接收端：\n\n```bash\ncd ~/rebot-arm-dli-isaacsim\n./run.sh --no-start-bridge --no-recording --no-dr\n```\n\n然后打开第二个终端，回放第 0 个 episode：\n\n```bash\ncd ~/rebot-arm-dli-isaacsim\n../rebot_lerobot/.venv/bin/python \\\n    scripts/replay_episode.py --episode 0\n```\n\n可通过添加 `--loop` 启用循环播放：\n\n```bash\n../rebot_lerobot/.venv/bin/python \\\n    scripts/replay_episode.py --episode 0 --loop\n```\n\n回放脚本发送的是数据集中的 `action` 数据，用于检查机械臂的运动轨迹；它不是双摄像头视频播放器，相机内容应使用 LeRobot 数据集可视化工具进行检查。\n\n## 无主臂验证（可选）\n\n如果暂时没有主臂，也可以用内置的 mock 主臂验证整套链路：\n\n```bash\ncd ~/rebot-arm-dli-isaacsim\n./run.sh --test                     # 物理与抓取回归，约 3 分钟\n./run.sh --test --test-recording    # 附加相机录制与数据集写入验证\n```\n\n最终出现 `[SUCCESS]` 即代表：全部 USD 资产正常加载、场景构建正常、物理/夹爪/抓取正常、数据集写入正常，全程不需要任何硬件。\n\n## 配置与参考资料\n\n项目中的主要配置文件：\n\n- `config/teleop_config.json`：串口、UDP、关节映射与抓取辅助；\n- `config/domain_randomization.json`：物体、光照、相机与数据集参数；\n- `config/grasp_config.json`：场景物体、物理参数与任务成功条件；\n- `scripts/capture_camera_previews.py`：headless 截图脚本，可重新生成本章节使用的相机画面。\n",
   },
   {
     "id": "3.5",

diff --git a/03_Get_Your_Own_VLA_Model/04_Collect_Data_from_Isaac_Sim.md b/03_Get_Your_Own_VLA_Model/04_Collect_Data_from_Isaac_Sim.md
@@ -99,7 +99,7 @@ The capture flow is the same (`R` reset / `S` record / `C` cancel), and the epis
 ```
 
 > [!NOTE]
-> The stills above were captured on an 8 GB laptop GPU; the speckle noise is a known rendering limitation of that hardware (see the project tutorial, "Known Issues"). On a recommended ≥12 GB RTX 40-series GPU the same scene renders clean.
+> The stills above are rendered with Path Tracing via the project's headless capture script. The real-time GUI viewport may still look noisy on 8 GB GPUs whose DLSS Ray Reconstruction is unavailable (see the project tutorial, "Known Issues").
 
 ## Environmental Requirements
 

diff --git a/03_Get_Your_Own_VLA_Model/04_Collect_Data_from_Isaac_Sim_zh.md b/03_Get_Your_Own_VLA_Model/04_Collect_Data_from_Isaac_Sim_zh.md
@@ -99,7 +99,7 @@ LeRobot Python bridge -- UDP 127.0.0.1:5005 --> Isaac Sim B601
 ```
 
 > [!NOTE]
-> 上方截图拍摄于 8GB 笔记本 GPU；画面噪点是该硬件的已知渲染限制（见项目教程"已知问题"一节）。在建议的 ≥12GB RTX 40 系显卡上加载同一场景，相机画面是干净的。
+> 上方截图由项目的 headless 截图脚本以 Path Tracing 渲染生成。8GB 显卡的实时 GUI 视口可能仍有噪点（DLSS Ray Reconstruction 不可用所致，见项目教程"已知问题"一节）。
 
 ## 环境要求
 
